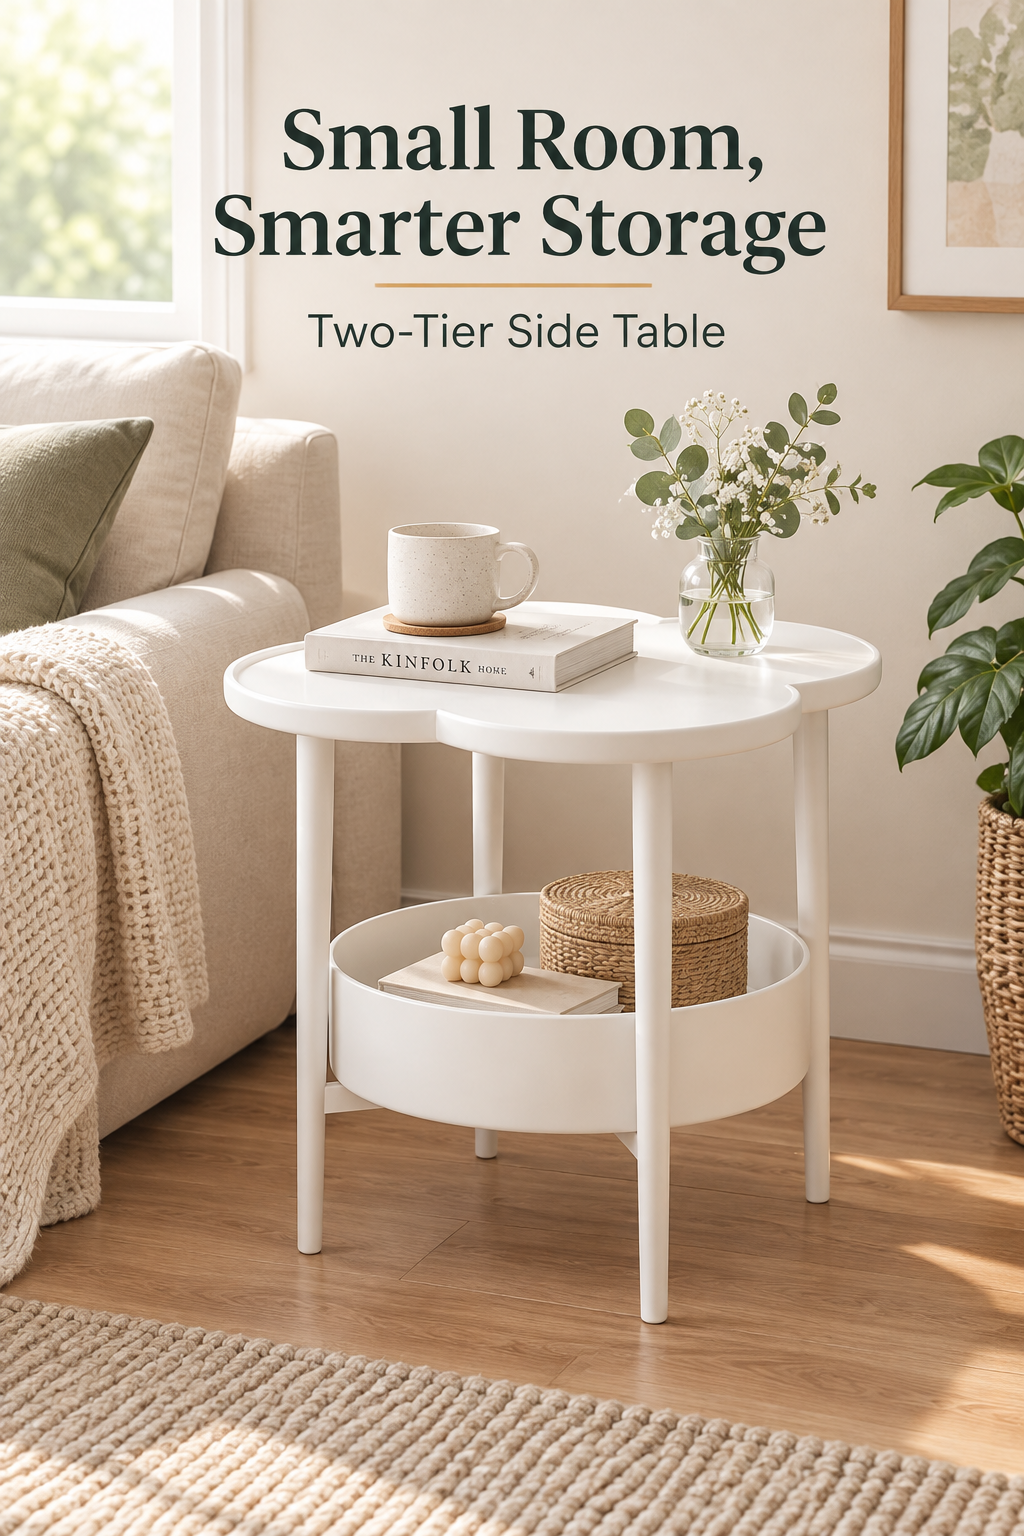
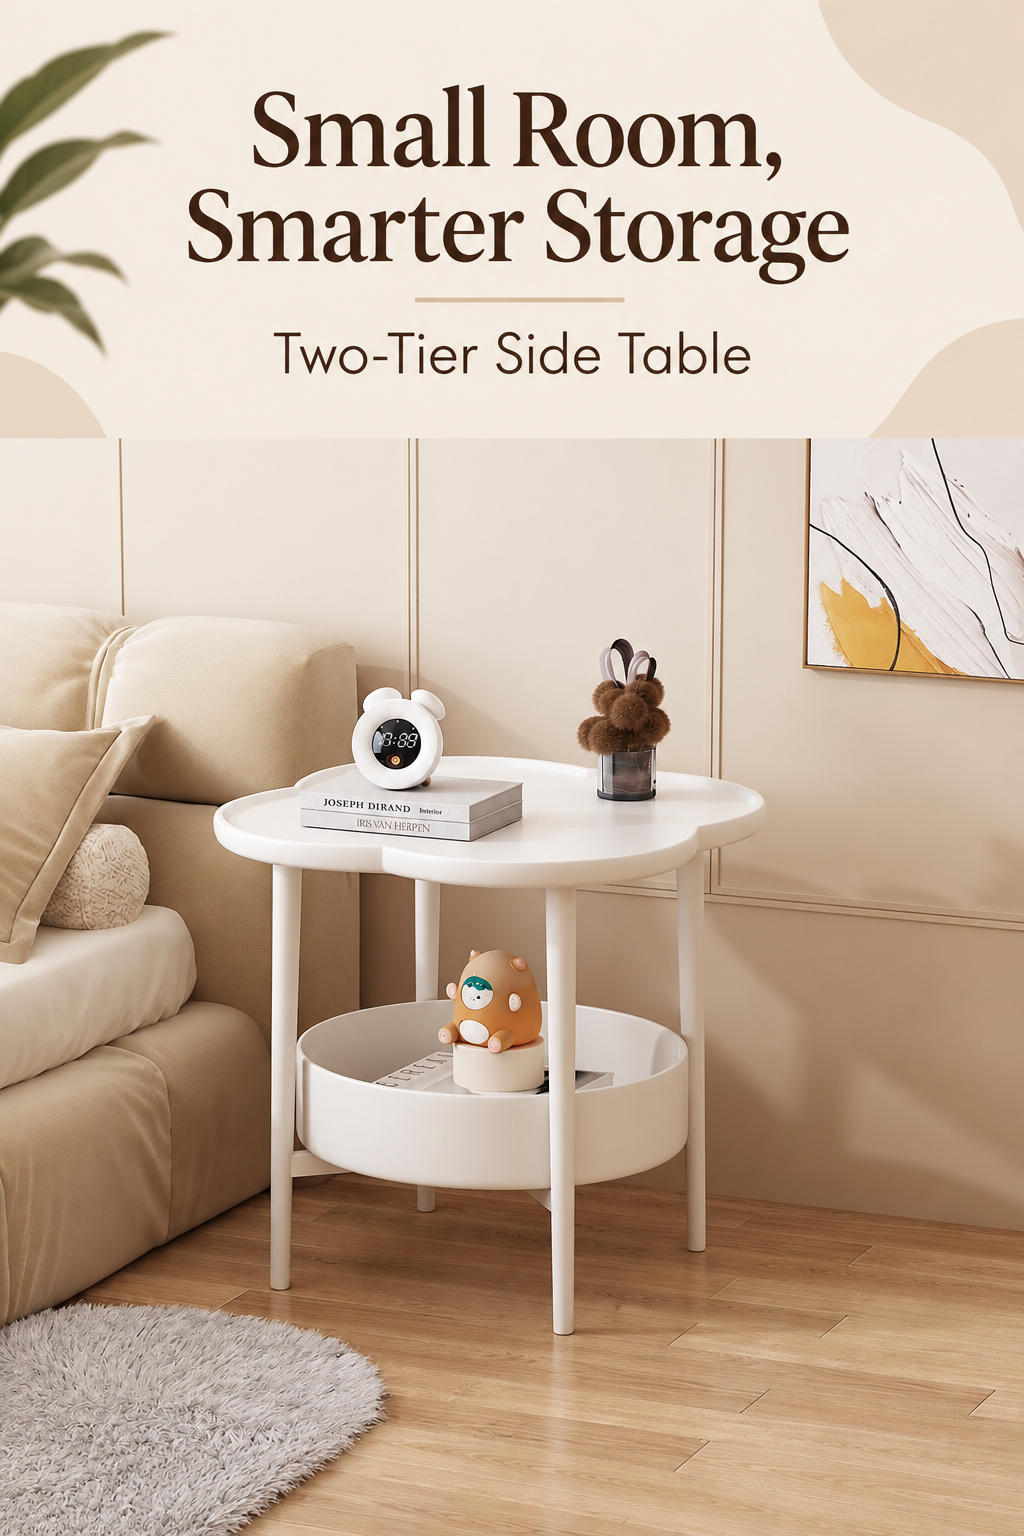
Hide rejected legacy products from recommendations

diff --git a/app/page.tsx b/app/page.tsx
@@ -1,6 +1,8 @@
 import { checkedAt, products } from './products';
+import { isVisibleRecommendation } from './catalog-visibility';
 
 export default function Home() {
+  const recommendedProducts = products.filter((product) => isVisibleRecommendation(product.slug));
   return (
     <main className="site-shell">
       <div className="brand-rule" />
@@ -34,7 +36,7 @@ export default function Home() {
           <p>Data checked {checkedAt}. Prices and availability can change.</p>
         </div>
         <div className="product-grid">
-          {products.map((product, index) => (
+          {recommendedProducts.map((product, index) => (
             <article className="product-card" key={product.slug}>
               <a className="product-image" href={`/finds/${product.slug}`} aria-label={`Read about ${product.shortName}`}>
                 <span className="card-index">0{index + 1}</span>

diff --git a/app/catalog-visibility.ts b/app/catalog-visibility.ts
@@ -1,0 +1,15 @@
+export const hiddenLegacyRecommendationSlugs = [
+  'expandable-microwave-oven-storage-rack',
+  'wardrobe-clothes-organiser',
+  'twelve-piece-vacuum-storage-bag-set',
+  'non-slip-slim-clothes-hangers-set',
+  'adjustable-cutlery-drawer-organiser',
+  'five-shelf-over-door-organiser',
+  'adjustable-double-layer-shoe-slots',
+] as const;
+
+const hiddenLegacyRecommendationSet = new Set<string>(hiddenLegacyRecommendationSlugs);
+
+export function isVisibleRecommendation(slug: string) {
+  return !hiddenLegacyRecommendationSet.has(slug);
+}

diff --git a/product-intelligence/creative-requirements.md b/product-intelligence/creative-requirements.md
@@ -3,7 +3,11 @@
 Every newly approved product needs a dedicated vertical Pinterest image before publication.
 
 - Minimum height-to-width ratio: 1.4 (2:3 is preferred).
-- Show the real product and its actual use; do not invent features or results.
+- Use the original AliExpress product image, or a real crop/cut-out from it, whenever possible.
+- The product itself must remain factually identical: do not change its shape, dimensions, colour, piece count, functions or included accessories, and do not imply a feature that the listing does not verify.
+- Generated elements may be limited to the background, typography, shadows, layout and decorative treatment around the real product.
+- Record the source product image used and confirm visual fidelity during review.
+- If a faithful pin cannot be made from the available listing evidence, reject the creative and continue with the next qualified candidate instead of publishing a misleading image.
 - Make the problem and solution understandable within a few seconds.
 - Use a short, specific benefit rather than clickbait, urgency or exaggerated claims.
 - Keep text readable on mobile and preserve enough empty space around it.
